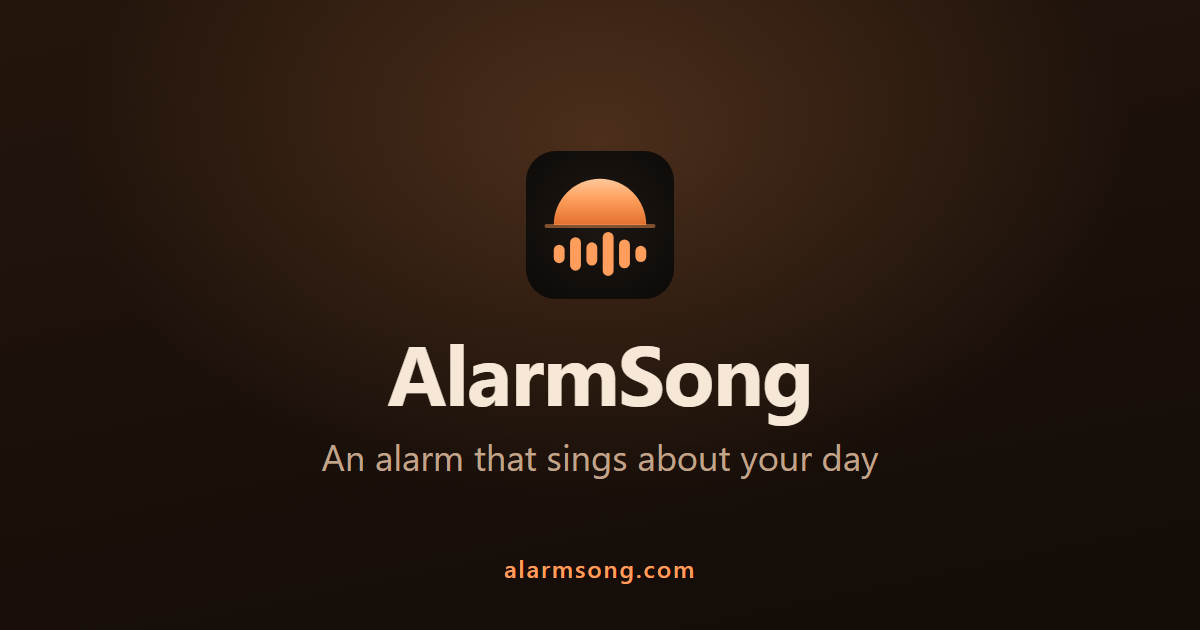
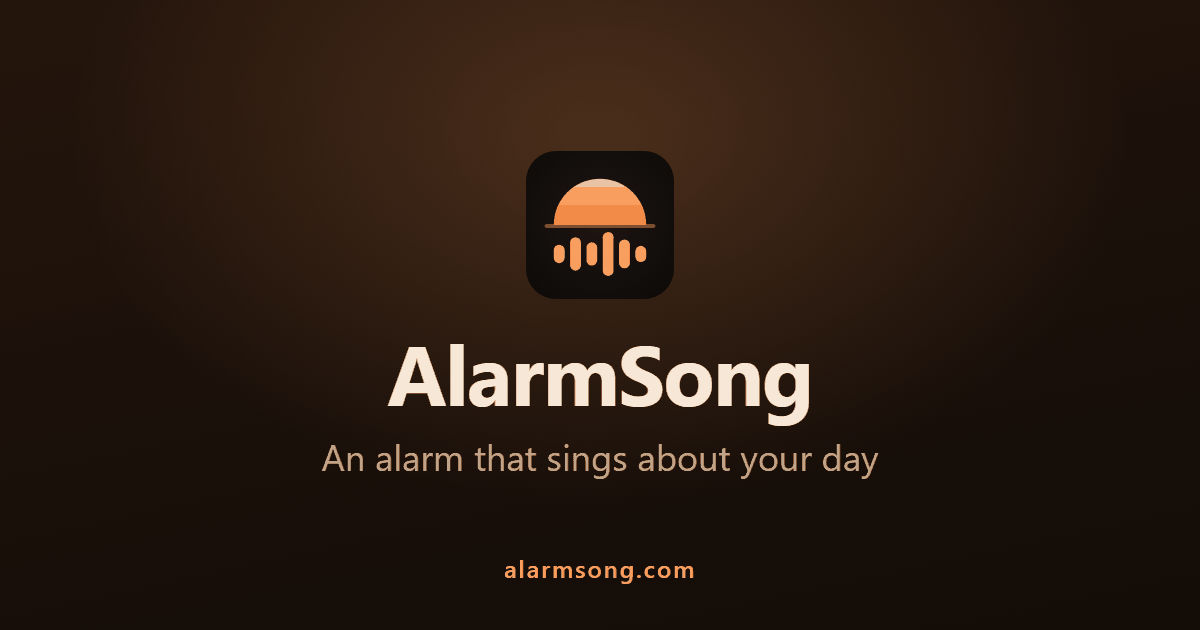
Home page stays one screen, and the link image stays light
The board asks the pre-submission home page to show the mark, the name, one
line about what it is, a coming-soon note and the footer links — and nothing
else, so the idea is not on display before the store is. Dropped the
three-step explanation that had crept in.

The link preview was 320 KB; messengers quietly skip a heavy one and the link
arrives blank. Down to 161 KB, and the baker keeps it there.

diff --git a/index.html b/index.html
@@ -45,22 +45,13 @@
 what is on your calendar, what you left unfinished, in the music you like.
 Never the same song twice.</p>
 
-<h2>How the morning works</h2>
-<ol class="steps">
-  <li>You set an alarm, the way you always do.</li>
-  <li>While you sleep, the day ahead gets read — the meetings, the things still
-      open — and a song gets written about it, in a style you picked.</li>
-  <li>That song is what wakes you. The ten o’clock meeting sings about itself,
-      and then the day starts.</li>
-</ol>
-
 <div class="card">
 <h3>Not out yet</h3>
-<p>We are still building it, and testing it on our own mornings. There is nothing
-to download here today.</p>
+<p>Coming soon to the App Store. We are still building it, and testing it on our
+own mornings — there is nothing to download here today.</p>
 <p>Want to hear when there is? Write to
 <a href="mailto:hello@alarmsong.com">hello@alarmsong.com</a> and we will tell you
-once — no newsletter, we do not have one.</p>
+once. No newsletter — we do not have one.</p>
 </div>
 
 <h2>Pages you might be looking for</h2>

diff --git a/brand/bake.py b/brand/bake.py
@@ -124,9 +124,16 @@ def main():
     made.append('favicon.ico')
 
     # 3. Картинка для ссылок — отдельная страница, знак плюс подпись.
+    #    Держим её легче двухсот килобайт: мессенджеры тяжёлую просто не
+    #    показывают, и ссылка приходит мёртвой. 256 цветов с размытием —
+    #    на глаз то же самое, весит вдвое меньше.
     og = os.path.join(ROOT, 'og.png')
     shoot(os.path.join(HERE, 'og.html'), 1200, 630, og, chrome)
-    Image.open(og).convert('RGB').save(og)
+    picture = Image.open(og).convert('RGB').quantize(
+        colors=256, method=Image.MEDIANCUT, dither=Image.FLOYDSTEINBERG)
+    picture.save(og, 'PNG', optimize=True)
+    if os.path.getsize(og) > 200 * 1024:
+        print('ВНИМАНИЕ: og.png тяжелее 200 КБ, ссылка может прийти без картинки')
     made.append('og.png')
 
     for junk in [wrapper] + [os.path.join(HERE, f'_ico_{s}.png') for s in ICO_SIZES]:
